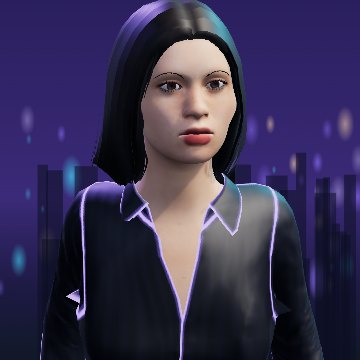
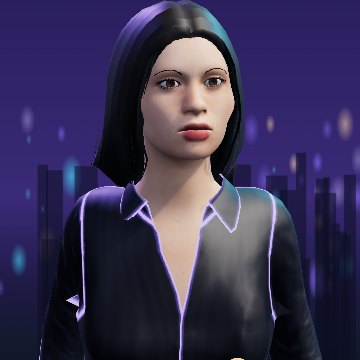
Tailored Talentopia uniform with trousers
- Compose the tailored cut from the tailored jacket (skirt islands removed)
  and the suit trousers (jacket/shirt islands removed), split by UV
  islands and kept by average height; piping follows trouser side seams
- Skin hiding: jacket coverage above the hips, trousers below
- Dark shoes for Layla and the default; portrait and tile re-rendered

diff --git a/world/avatar.js b/world/avatar.js
@@ -17,6 +17,9 @@ function augmentCatalog(cat) {
   for (const [id, base, label] of [['talentopia_m', 'male_elegantsuit01', 'Talentopia · classic cut'], ['talentopia_f', 'female_elegantsuit01', 'Talentopia · tailored cut']]) {
     const b = cat.parts.outfit.find(p => p.id === base); if (!b) continue; cat.parts.outfit.unshift({ ...b, id, label, style: 'talentopia', base }); cat.hideBits[id] = cat.hideBits[base];
   }
+  // tailored cut with trousers: the tailored jacket (skirt pieces removed) worn over the suit trousers (jacket and shirt pieces removed)
+  const tf = cat.parts.outfit.find(p => p.id === 'talentopia_f'), ms = cat.parts.outfit.find(p => p.id === 'male_elegantsuit01');
+  if (tf && ms) { tf.compose = [{ file: tf.file, keep: 'upper', bit: cat.hideBits.female_elegantsuit01 }, { file: ms.file, keep: 'lower', bit: cat.hideBits.male_elegantsuit01 }]; tf.label = 'Talentopia · tailored cut'; }
   return cat;
 }
 const navyCache = {};
@@ -25,6 +28,19 @@ function navyMap(tex) { let t = navyCache[tex.uuid]; if (t) return t;
   const d = g.getImageData(0, 0, c.width, c.height), p = d.data;
   for (let i = 0; i < p.length; i += 4) { const l = (0.3 * p[i] + 0.59 * p[i + 1] + 0.11 * p[i + 2]) / 255, k = 0.35 + 0.9 * l; p[i] = 22 * k; p[i + 1] = 26 * k; p[i + 2] = 44 * k; }
   g.putImageData(d, 0, 0); t = new THREE.CanvasTexture(c); t.flipY = tex.flipY; t.colorSpace = THREE.SRGBColorSpace; t.anisotropy = 8; navyCache[tex.uuid] = t; return t; }
+const islandCache = {};
+function filterIslands(s0, keep) {
+  const key = s0.geometry.uuid + keep; if (islandCache[key]) return islandCache[key];
+  const g0 = s0.geometry, idx = g0.index.array, pos = g0.attributes.position, n = pos.count, par = new Int32Array(n).map((_, i) => i);
+  const find = a => { while (par[a] !== a) a = par[a] = par[par[a]]; return a; };
+  for (let i = 0; i < idx.length; i += 3) { const a = find(idx[i]), b = find(idx[i + 1]), c = find(idx[i + 2]); par[b] = a; par[c] = a; }
+  const sum = new Map(); for (let i = 0; i < n; i++) { const r = find(i), o = sum.get(r) || [0, 0]; o[0] += pos.getY(i); o[1]++; sum.set(r, o); }
+  const sk = s0.skeleton, pi = sk.bones.findIndex(b => b.name === 'pelvis'); const pelvisY = pi >= 0 ? new THREE.Vector3().setFromMatrixPosition(new THREE.Matrix4().copy(sk.boneInverses[pi]).invert()).y : 0.95;
+  const ok = r => { const [t, c] = sum.get(r), y = t / c; return keep === 'upper' ? y > pelvisY - 0.04 : y < pelvisY - 0.06; };
+  const out = []; for (let i = 0; i < idx.length; i += 3) if (ok(find(idx[i]))) out.push(idx[i], idx[i + 1], idx[i + 2]);
+  const g = new THREE.BufferGeometry(); for (const k in g0.attributes) g.setAttribute(k, g0.attributes[k]); g.morphAttributes = g0.morphAttributes; g.morphTargetsRelative = g0.morphTargetsRelative; g.setIndex(out);
+  g.boundingSphere = g0.boundingSphere; g.boundingBox = g0.boundingBox; return (islandCache[key] = { geo: g, pelvisY });
+}
 const pipingCache = {};
 function pipingTex(geo) { // white lines on black along UV-island borders (garment seams, lapels, cuffs, hems) → emissive piping
   if (pipingCache[geo.uuid]) return pipingCache[geo.uuid];
@@ -77,7 +93,7 @@ function skinTex(id) { return shared.skins[id] || (shared.skins[id] = new Promis
 
 export const DEFAULT = { pres: -0.4, build: 0, muscle: 0.25, height: 1.0, jawWide: 0, chinStrong: 0, nose: 0, cheekbones: 0.25, eyesBig: 0, eyesUp: 0, lipsFull: 0, head: 0,
   skin: 'young_asian_female', tone: -0.06, makeup: 'none', eyes: '#5b3a22', hair: 'long01', hairColor: '#1b1411', brows: 'eyebrow006', beard: 'none',
-  outfit: 'talentopia_f', outfitTint: '#ffffff', shoes: 'shoes01', glasses: 'none', hat: 'none' }; // new guests start in the Talentopia uniform
+  outfit: 'talentopia_f', outfitTint: '#ffffff', shoes: 'shoes06', glasses: 'none', hat: 'none' }; // new guests start in the Talentopia uniform
 export const PRESETS = {
   feminine: { pres: -0.8, build: -0.1, muscle: 0.2, hair: 'long01', brows: 'eyebrow001', beard: 'none', outfit: 'female_elegantsuit01', shoes: 'shoes01', skin: 'young_african_female', hairColor: '#1b1411', cheekbones: 0.4, jawWide: 0 },
   masculine: { pres: 0.85, build: 0.05, muscle: 0.5, hair: 'short02', brows: 'eyebrow006', beard: 'stubble', outfit: 'male_casualsuit03', shoes: 'shoes03', skin: 'young_caucasian_male', hairColor: '#3a2a1e', jawWide: 0.4, chinStrong: 0.3 },
@@ -85,7 +101,7 @@ export const PRESETS = {
 };
 // ready-made avatars offered during onboarding (portraits in assets/ui/avatars are renders of these exact configs)
 export const READY = [
-  { id: 'layla', name: 'Layla', cfg: { pres: -0.85, build: -0.1, muscle: 0.25, skin: 'young_asian_female', tone: -0.04, hair: 'long01', hairColor: '#1b1411', brows: 'eyebrow006', outfit: 'talentopia_f', outfitTint: '#ffffff', shoes: 'shoes01', cheekbones: 0.55, lipsFull: 0.35, eyesBig: 0.2, jawWide: 0, makeup: 'natural', eyes: '#5b3a22' } },
+  { id: 'layla', name: 'Layla', cfg: { pres: -0.85, build: -0.1, muscle: 0.25, skin: 'young_asian_female', tone: -0.04, hair: 'long01', hairColor: '#1b1411', brows: 'eyebrow006', outfit: 'talentopia_f', outfitTint: '#ffffff', shoes: 'shoes06', cheekbones: 0.55, lipsFull: 0.35, eyesBig: 0.2, jawWide: 0, makeup: 'natural', eyes: '#5b3a22' } },
   { id: 'aria', name: 'Aria', cfg: { pres: -0.8, build: -0.05, muscle: 0.25, skin: 'young_african_female', hair: 'long01', hairColor: '#141012', brows: 'eyebrow001', outfit: 'female_elegantsuit01', outfitTint: '#5f6f9a', shoes: 'shoes01', cheekbones: 0.45, eyes: '#5b3a22' } },
   { id: 'leo', name: 'Leo', cfg: { pres: 0.85, build: 0.05, muscle: 0.5, skin: 'young_caucasian_male', hair: 'short02', hairColor: '#5a3a24', brows: 'eyebrow006', beard: 'stubble', outfit: 'male_casualsuit03', outfitTint: '#ffffff', shoes: 'shoes03', jawWide: 0.4, chinStrong: 0.3, eyes: '#3a6ea8' } },
   { id: 'mei', name: 'Mei', cfg: { pres: -0.7, build: -0.1, muscle: 0.2, skin: 'young_asian_female', hair: 'bob01', hairColor: '#141012', brows: 'eyebrow001', outfit: 'female_casualsuit01', outfitTint: '#ffffff', shoes: 'shoes03', glasses: 'round', eyes: '#5b3a22' } },
@@ -174,11 +190,13 @@ export class AvatarModel {
     const key = kind + ':' + id; if (this.partMeshes[key]) return this.partMeshes[key];
     if (this.loading[key]) return this.loading[key];
     const info = (this.catalog.parts[kind] || []).find(p => p.id === id); if (!info) return [];
-    const src = shared.parts[info.file] || (shared.parts[info.file] = load('assets/avatar/' + info.file));
-    return (this.loading[key] = src.then(g => {
-      const srcs = []; g.scene.traverse(o => { if (o.isSkinnedMesh) srcs.push(o); }); const list = [];
-      for (const s0 of srcs) {
+    const pieces = info.compose || [{ file: info.file }];
+    const srcs0 = pieces.map(pc => shared.parts[pc.file] || (shared.parts[pc.file] = load('assets/avatar/' + pc.file)));
+    return (this.loading[key] = Promise.all(srcs0).then(gs => {
+      const srcs = []; gs.forEach((g, k) => g.scene.traverse(o => { if (o.isSkinnedMesh) srcs.push([o, pieces[k].keep]); })); const list = [];
+      for (const [s0, keep] of srcs) {
         const s = s0.clone(); s.material = cloneMat(s0.material);
+        if (keep) { const f = filterIslands(s0, keep); s.geometry = f.geo; this.composeCutY = f.pelvisY; }
         const bones = s0.skeleton.bones.map(b => this.bones[b.name] || b);
         s.bind(new THREE.Skeleton(bones, s0.skeleton.boneInverses), s0.bindMatrix);
         s.name = kind + '__' + id; prepMaterial(s); this.body.parent.add(s); list.push(s);
@@ -200,7 +218,10 @@ export class AvatarModel {
     this.applyMorphs(); this.applyHide(); this.applyMaterials(); this.applyGlasses(); this.applyPin();
   }
   applyHide() { // hide body triangles fully covered by the chosen outfit + shoes
-    const bits = this.catalog.hideBits; const mask = ((bits[this.cfg.outfit] ?? -1) >= 0 ? 1 << bits[this.cfg.outfit] : 0) | ((bits[this.cfg.shoes] ?? -1) >= 0 ? 1 << bits[this.cfg.shoes] : 0);
+    const bits = this.catalog.hideBits; const info = this.catalog.parts.outfit.find(p => p.id === this.cfg.outfit);
+    const shoeMask = (bits[this.cfg.shoes] ?? -1) >= 0 ? 1 << bits[this.cfg.shoes] : 0;
+    if (info && info.compose) return this.applyHideCompose(info, shoeMask);
+    const mask = ((bits[this.cfg.outfit] ?? -1) >= 0 ? 1 << bits[this.cfg.outfit] : 0) | shoeMask;
     if (!this.hideAttr || !mask) { this.body.geometry = this.srcGeo; return; }
     let g = shared.geo[mask];
     if (!g) {
@@ -211,6 +232,15 @@ export class AvatarModel {
       g.morphAttributes = s0.morphAttributes; g.morphTargetsRelative = s0.morphTargetsRelative; g.setIndex(out);
       g.boundingBox = s0.boundingBox; g.boundingSphere = s0.boundingSphere; shared.geo[mask] = g;
     }
+    this.body.geometry = g;
+  }
+  applyHideCompose(info, shoeMask) {
+    const [up, lo] = info.compose, key = 'c' + up.bit + '_' + lo.bit + '_' + shoeMask; let g = shared.geo[key];
+    if (!g) { const h = this.hideAttr.array, src = this.idx0, pos = this.srcGeo.attributes.position, cut = this.composeCutY || 0.95, out = [];
+      const hid = v => { const b = Math.round(h[v]); return (b & (1 << up.bit)) || (b & shoeMask) || ((b & (1 << lo.bit)) && pos.getY(v) < cut - 0.08); };
+      for (let i = 0; i < src.length; i += 3) if (!(hid(src[i]) && hid(src[i + 1]) && hid(src[i + 2]))) out.push(src[i], src[i + 1], src[i + 2]);
+      const s0 = this.srcGeo; g = new THREE.BufferGeometry(); for (const k in s0.attributes) g.setAttribute(k, s0.attributes[k]); g.morphAttributes = s0.morphAttributes; g.morphTargetsRelative = s0.morphTargetsRelative; g.setIndex(out);
+      g.boundingBox = s0.boundingBox; g.boundingSphere = s0.boundingSphere; shared.geo[key] = g; }
     this.body.geometry = g;
   }
   applyMaterials() {

diff --git a/docs/UX_V3_PLAN.md b/docs/UX_V3_PLAN.md
@@ -122,4 +122,5 @@
 - **Lashes**: darker and fuller.
 - **Avatar Studio**: a dusk-violet look, with a skyline backdrop of out-of-focus city lights, a dark glossy floor, warm key light, and violet plus cyan rim lights. Passport portraits use the same look.
 - **Ready-made avatars**: **Layla** (long dark hair, full brows, natural makeup, tailored uniform) leads the line-up, and Kai wears the classic-cut uniform. All portraits and thumbnails were re-rendered from the live 3D models.
-- **Limits**: still a real-time MakeHuman body, not a photoreal render; the female uniform keeps the base suit's skirt; the hair cards come from the same CC0 set.
+- **Tailored cut with trousers**: the tailored jacket (skirt pieces removed) is worn over the suit trousers (jacket and shirt pieces removed). Each garment is split into its UV islands, and pieces are kept by their average height. The trousers' piping runs down the side seams, and the default and Layla wear dark shoes. Skin hiding uses the jacket's coverage above the hips and the trousers' below.
+- **Limits**: still a real-time MakeHuman body, not a photoreal render; the hair cards come from the same CC0 set.
